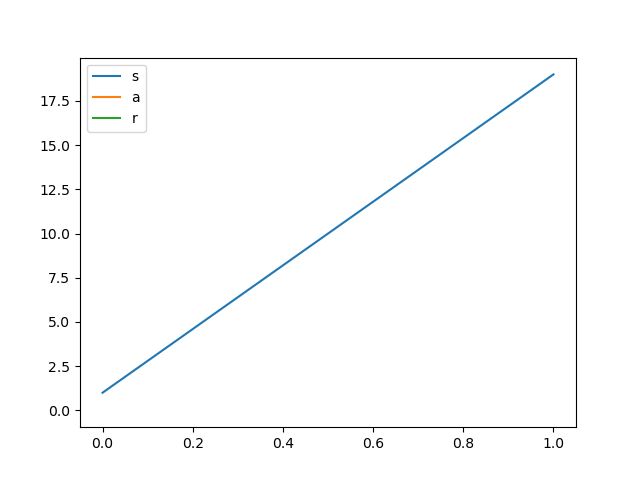
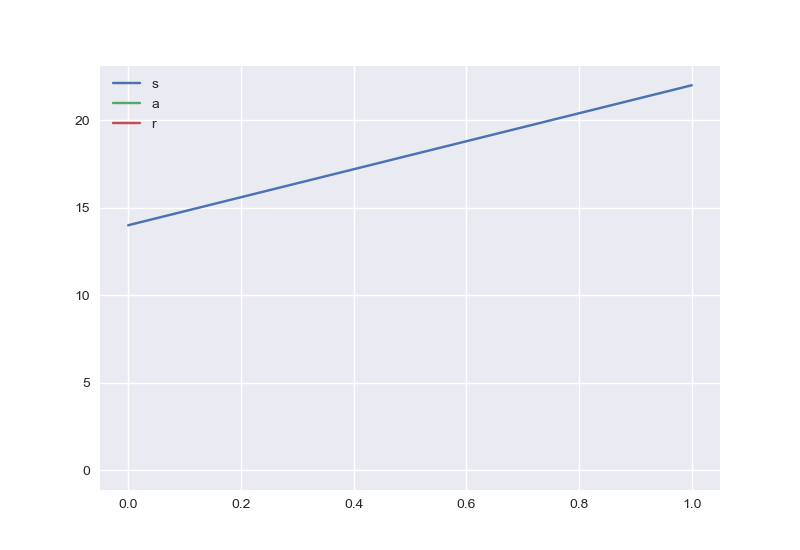
all algorithms working

diff --git a/test_gridworld.py b/test_gridworld.py
@@ -1,6 +1,7 @@
 import random
 import numpy as np
 import matplotlib.pyplot as plt
+plt.style.use('seaborn')
 import gridworld
 import model_based
 import model_free
@@ -22,21 +23,27 @@ def main():
 
     # they converge to the same policy and value function !
     gamma = 0.95
-    policy_pi, V_pi = model_based.policy_improvement(env, gamma)
+    policy_pi, V_pi, mvf_pi = model_based.policy_improvement(env, gamma)
+    print(V_pi)
     
-    policy_vi, V_vi = model_based.value_iteration(env, gamma)
+    policy_vi, V_vi, mvf_vi = model_based.value_iteration(env, gamma)
 
     # change these parameters based on model
     gamma = 0.95
-    alpha = 0.05
-    epsilon = 0.1
-    episodes = 100
+    alpha = 0.5
+    epsilon = 0.5
+    episodes = 500
 
     Q_SARSA = model_free.SARSA(env, episodes, gamma, alpha, epsilon)
-    print(Q_SARSA)
+    # print(Q_SARSA)
+
+    V_SARSA = model_free.TD_0(env, Q_SARSA, episodes, gamma, alpha)
+    print(V_SARSA)
 
     Q_LEARNING = model_free.Q_learning(env, episodes, gamma, alpha, epsilon)
-    print(Q_LEARNING)
+    
+    V_Q_LEARNING = model_free.TD_0(env, Q_LEARNING, episodes, gamma, alpha)
+    print(V_Q_LEARNING)
 
     # Simulate until episode is done
     done = False
@@ -49,12 +56,24 @@ def main():
         log['r'].append(r)
 
     # Plot data and save to png file
+    plt.figure(0)
     plt.plot(log['t'], log['s'])
     plt.plot(log['t'][:-1], log['a'])
     plt.plot(log['t'][:-1], log['r'])
     plt.legend(['s', 'a', 'r'])
     plt.savefig('figures/gridworld/test_gridworld.png')
 
+    # plot for value iteration
+    value_iters = np.arange(1, np.size(mvf_vi)+1)
+    policy_iters = np.arange(1, np.size(mvf_pi)+1)
+    plt.figure(1)
+    plt.plot(mvf_vi, value_iters)
+    plt.plot(mvf_pi, policy_iters)
+    plt.xlabel('Mean Value of Value Function')
+    plt.ylabel('Iterations')
+    plt.savefig('figures/gridworld/value_iter_plot.png')
+
+    # plot for policy iteration
 
 if __name__ == '__main__':
     main()

diff --git a/model_based.py b/model_based.py
@@ -41,6 +41,7 @@ def policy_improvement(env, gamma):
 
     # random policy
     policy = np.ones((env.num_states, env.num_actions)) / env.num_actions
+    mean_value_function = []
     while True:
         policy_stable = True
         
@@ -62,8 +63,9 @@ def policy_improvement(env, gamma):
                 policy_stable = False
             policy[s] = np.eye(env.num_actions)[best_action]
 
+        mean_value_function.append(np.mean(V))
         # return policy if the policy is stable
-        if policy_stable: return policy, V
+        if policy_stable: return policy, V, mean_value_function
 
 def value_iteration(env, gamma, theta=0.00001):
     # initialize value array
@@ -71,6 +73,7 @@ def value_iteration(env, gamma, theta=0.00001):
 
     # Loop until delta < theta
     delta = 1
+    mean_value_function = []
     while delta > theta:
         delta = 0
         # loop for each state to perform a full back up
@@ -87,6 +90,9 @@ def value_iteration(env, gamma, theta=0.00001):
             # update value function
             V[s] = best_action_value
 
+            # calculate mean value
+        mean_value_function.append(np.mean(V))
+
     # Output deterministic policy
     policy = np.zeros((env.num_states, env.num_actions))
     for s in range(env.num_states):
@@ -98,4 +104,4 @@ def value_iteration(env, gamma, theta=0.00001):
         policy[s, best_action] = 1.0
 
     
-    return policy, V
+    return policy, V, mean_value_function

diff --git a/model_free.py b/model_free.py
@@ -65,3 +65,31 @@ def Q_learning(env, num_episodes, gamma, alpha, epsilon):
             if done: break
 
     return Q
+
+def TD_0(env, policy, num_episodes, gamma, alpha):
+    # intialize value array
+    V = np.zeros(env.num_states)
+
+    # looping through all episodes
+    for episode in range(num_episodes):
+        # initialize state
+        state = env.reset()
+
+        # step through the environment
+        for t in itertools.count():
+            # take an action
+            action = np.argmax(policy[state])
+            
+            # take a step
+            next_state, reward, done = env.step(action)
+
+            # update value function 
+            V[state] = V[state] + alpha * (reward + gamma * V[next_state] - V[state])
+
+            # update state
+            state = next_state
+
+            if done: break
+
+    return V
+
